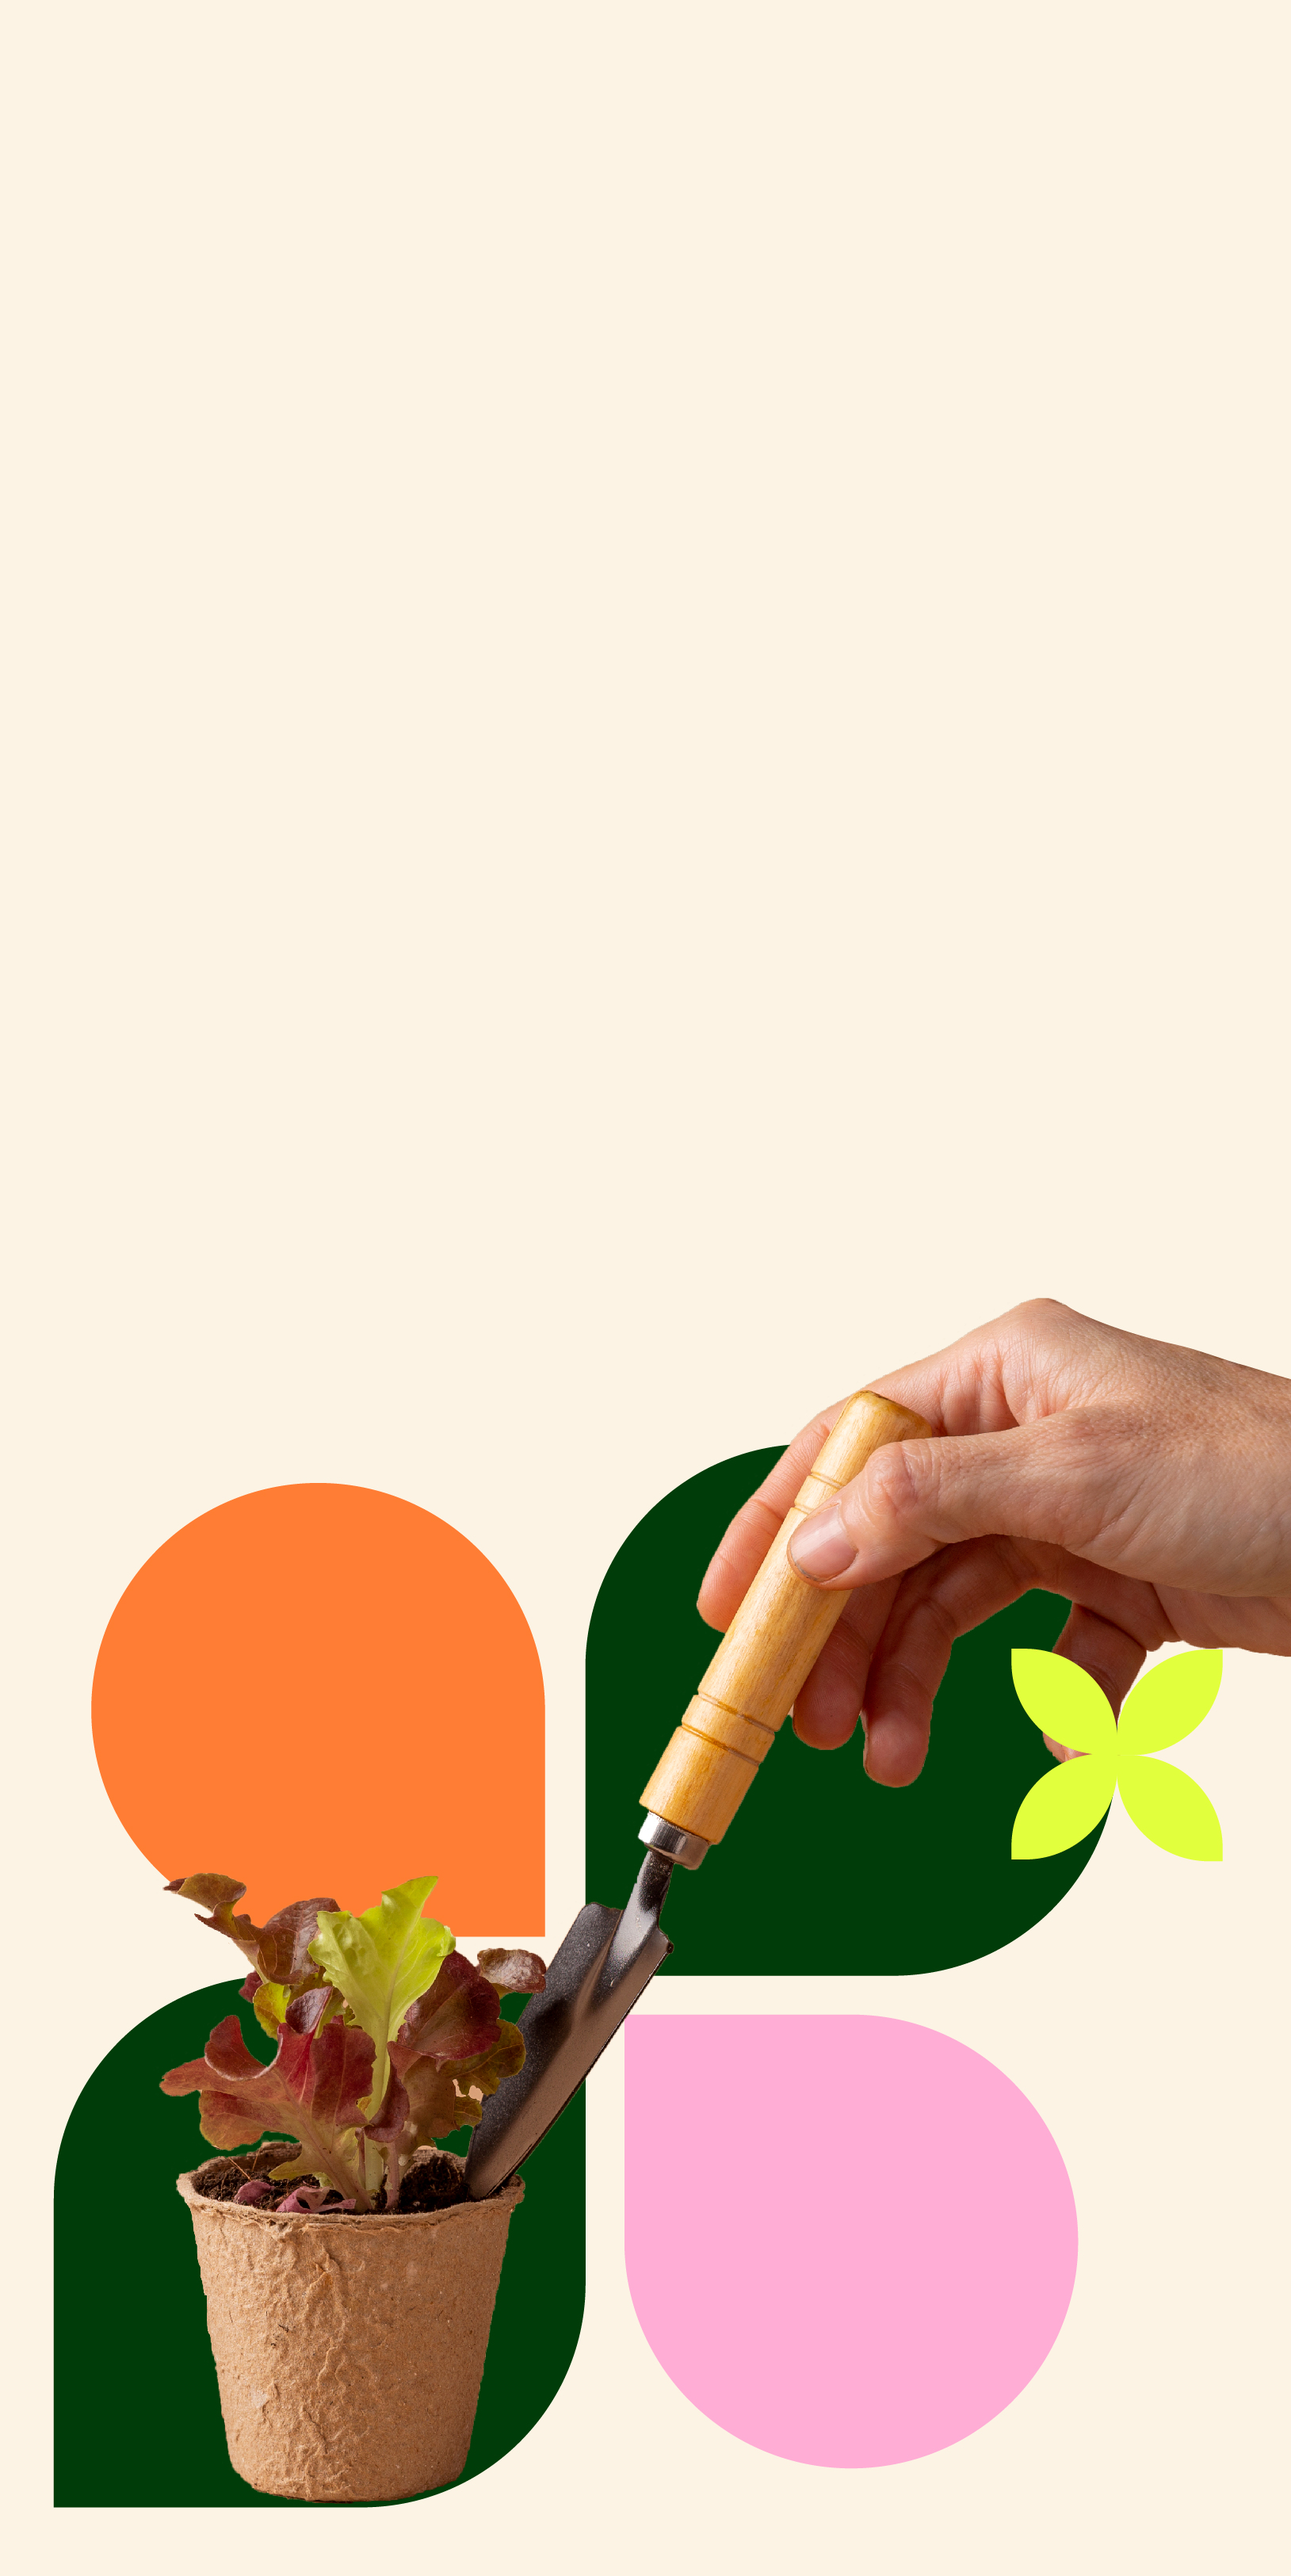
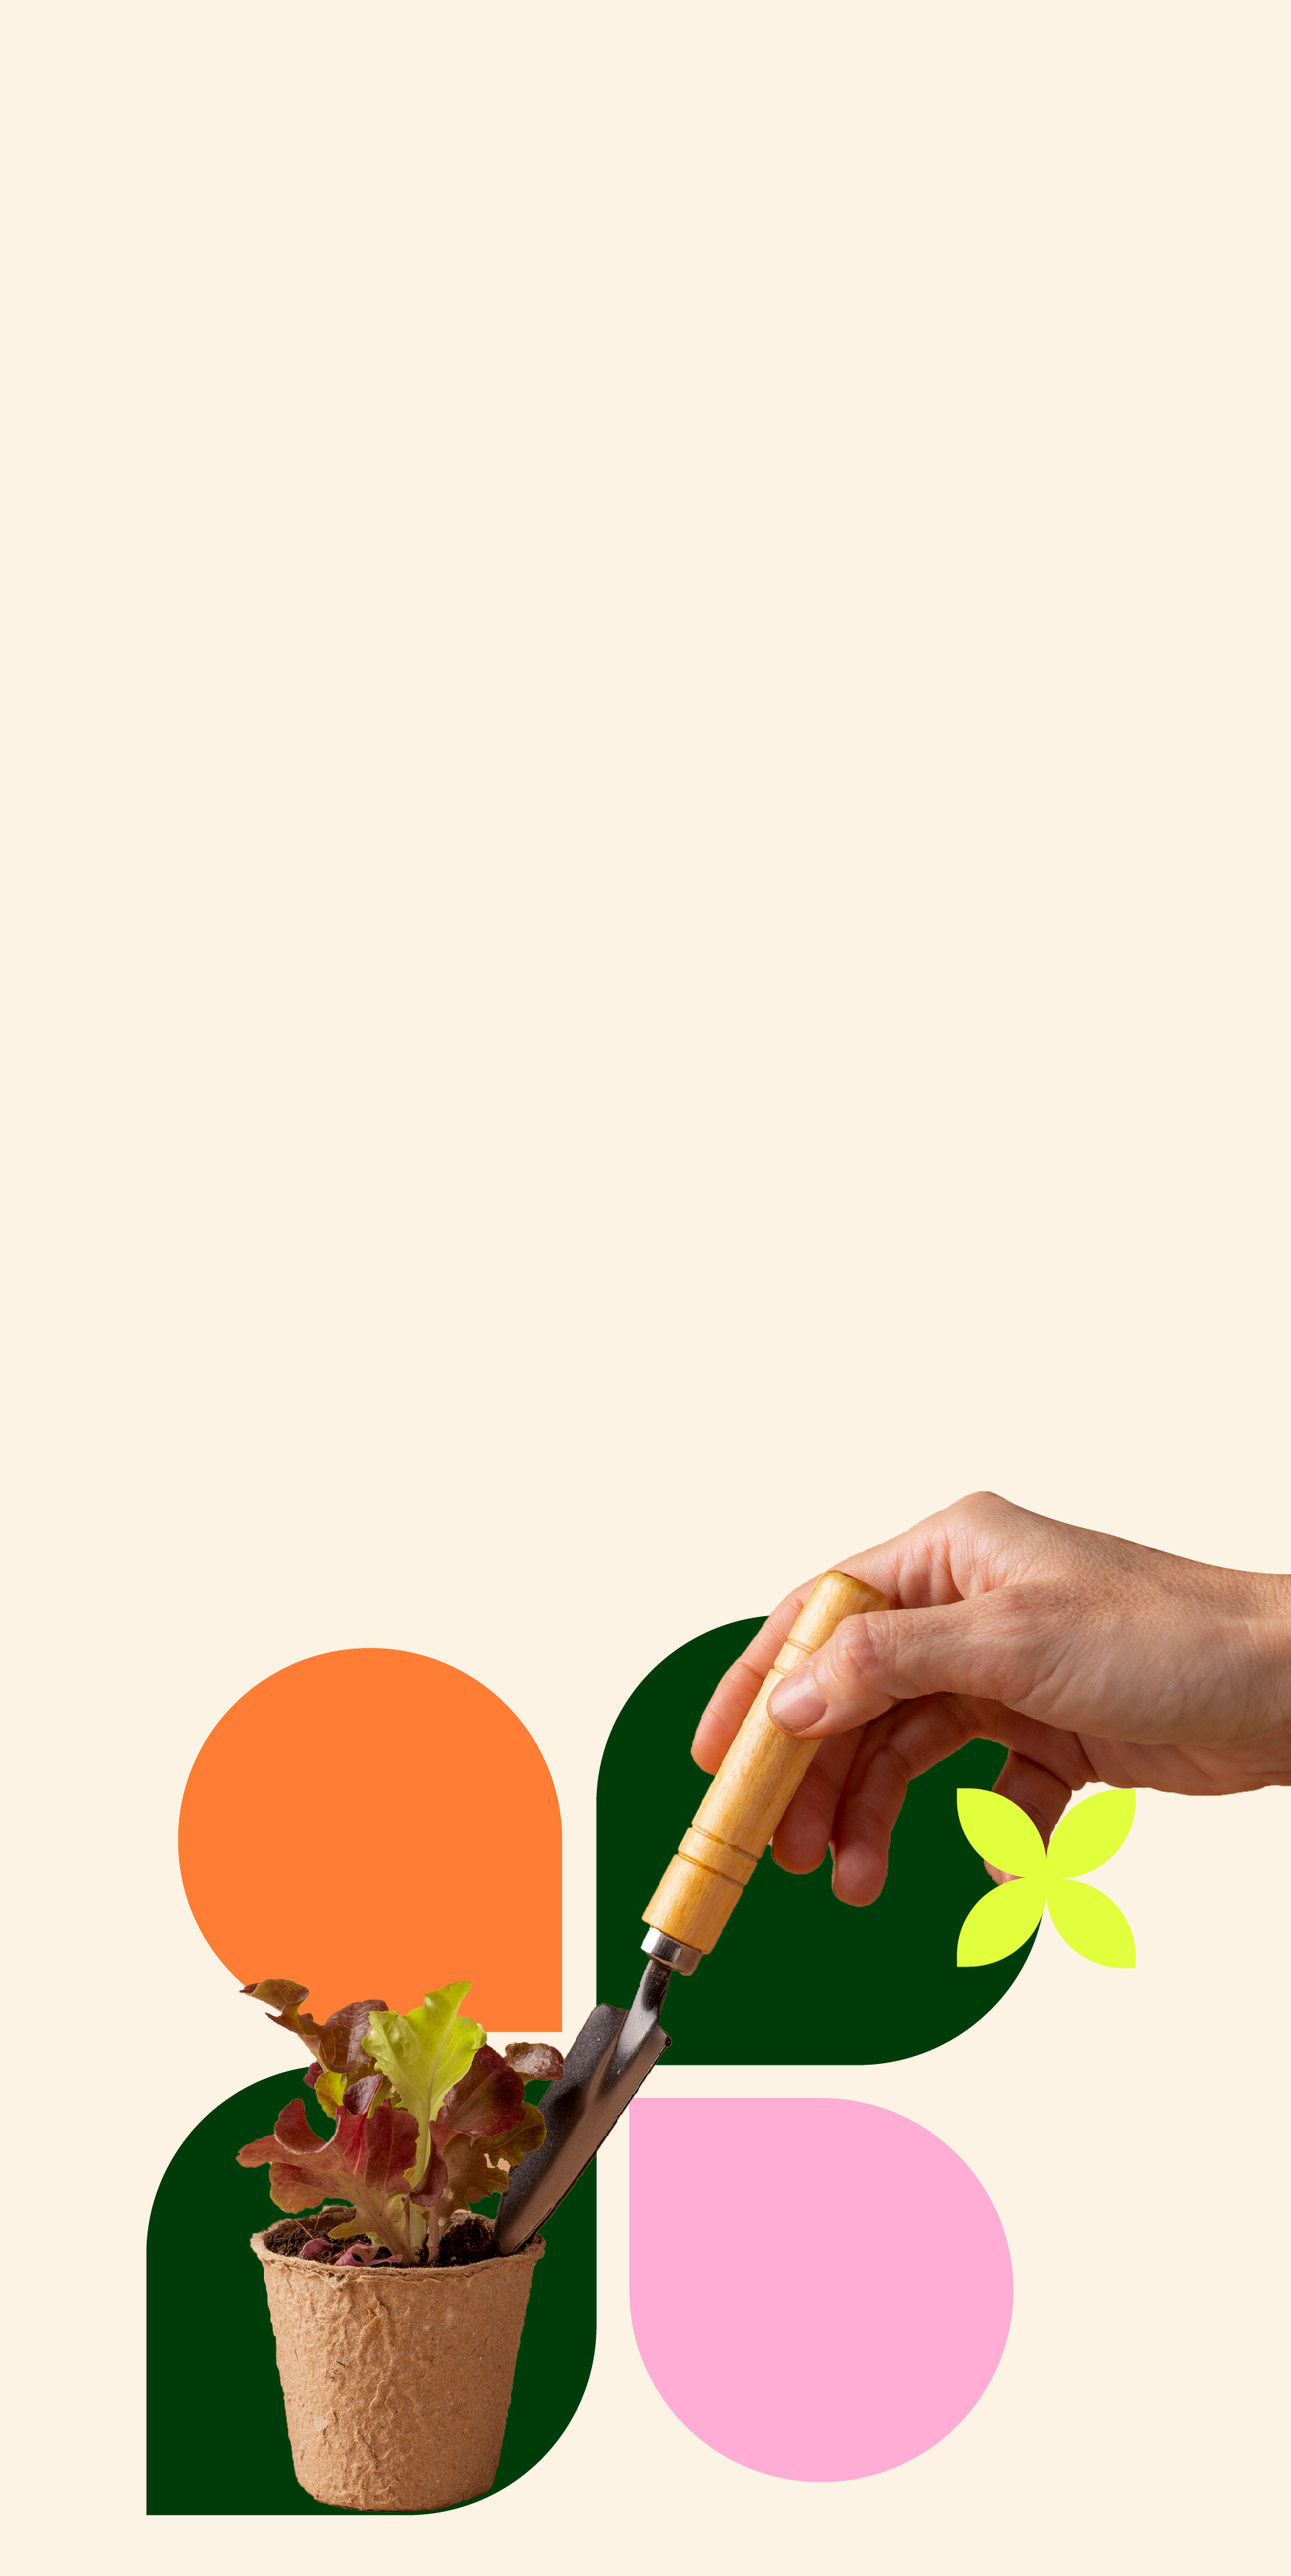
cambios

diff --git a/assets/css/main.css b/assets/css/main.css
@@ -838,6 +838,13 @@ section,
     font-size: 32px;
   }
 
+.hero {
+  background-image: url("../../assets/img/hero1-mobile.jpg") ;
+  background-position: center bottom;
+
+}
+
+
   .hero p {
     font-size: 18px;
   }
@@ -3520,6 +3527,13 @@ color: #FCF3E4
 @media (max-width: 768px) {
   .hero2 h2 {
     font-size: 32px;
+  }
+
+  .hero2 {
+    background-image: url("../../assets/img/hero3-mobile.jpg") ;
+    background-position: center top;
+    padding: 550px 0 100px 10px;
+  
   }
 
 
